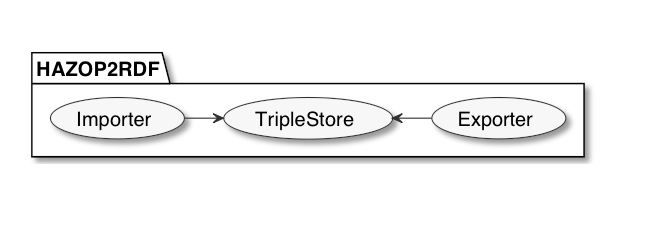
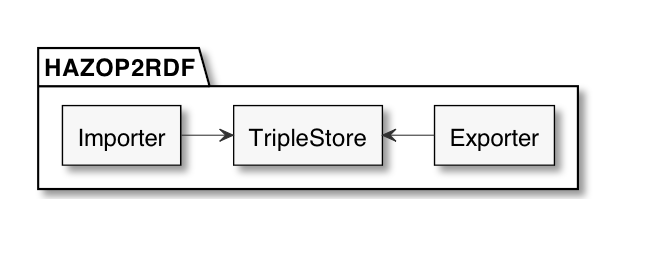
Docs: updated concept and implementation diagrams

Changed region(s): [[0.0309, 0.1556, 0.9274, 0.7778]]

diff --git a/docs/concept.md b/docs/concept.md
@@ -16,6 +16,7 @@ skinparam packageTitleAlignment left
 skinparam usecaseBorderThickness 1
 skinparam defaultFontSize 18
 skinparam rectangleBorderThickness 1
+skinparam componentStyle rectangle
 ```
 
 
@@ -28,13 +29,9 @@ What are the main components of the program?
 
 ```plantuml
 package HAZOP2RDF {
-  usecase Importer
-  usecase TripleStore
-  usecase Exporter
+  [Importer] -> [TripleStore]
+  [TripleStore] <- [Exporter]
 }
-
-Importer -> TripleStore
-TripleStore <- Exporter
 ```
 
 ## Diagram PNG
@@ -73,11 +70,11 @@ What would the command line interface structure look like?
 
 ```plantuml
 package "Command Line Interface" {
-  usecase "- export HAZOPs from local directory\n- get dataset information from Fuseki server\n- export dataset from the Fuseki server" << Exporter >>
-  usecase "- show list of Excel files\n- show list of HAZOPs\n- validate HAZOPs\n- build RDF Graphs\n- save to local directory\n- upload to Fuseki server" << Importer >>
+  rectangle "- export HAZOPs from local directory\n- get dataset information from Fuseki server\n- export dataset from the Fuseki server" << Exporter >>
+  rectangle "- show list of Excel files\n- show list of HAZOPs\n- validate HAZOPs\n- build RDF Graphs\n- save to local directory\n- upload to Fuseki server" << Importer >>
 }
 ```
 
 ## Diagram PNG
 
-![](images/sketch_cli.png)
+![](images/cli_design.png)

diff --git a/docs/implementation.md b/docs/implementation.md
@@ -45,3 +45,30 @@ As a result the RDF Graphs will be stored locally in Excel format again.
     
 We developed the HAZOP2RDF Project with version control on the online platform GitHub. The program is available for 
 Windows and macOS platforms. We also included a detailed installation guide in the documentation on the GitHub platform.
+
+```plantuml
+skinparam monochrome true
+skinparam ranksep 80
+skinparam dpi 150
+skinparam arrowThickness 0.7
+skinparam packageTitleAlignment left
+skinparam usecaseBorderThickness 0.4
+skinparam defaultFontSize 16
+skinparam rectangleBorderThickness 1
+skinparam componentStyle rectangle
+
+component "Command Line Interface" as CLI
+component "Importer" as ImporterInterface << Interface >>
+component "Exporter" as ExporterInterface << Interface >>
+component "Importer" as ImporterService << Service >>
+component "Exporter" as ExporterService << Service >>
+component "TripleStore" as TripleStoreService << Service >>
+
+CLI --> ImporterInterface
+CLI --> ExporterInterface
+ImporterInterface ..> ImporterService
+ImporterInterface ..> TripleStoreService
+ExporterInterface ..> ExporterService
+ExporterInterface ..> TripleStoreService
+```
+
